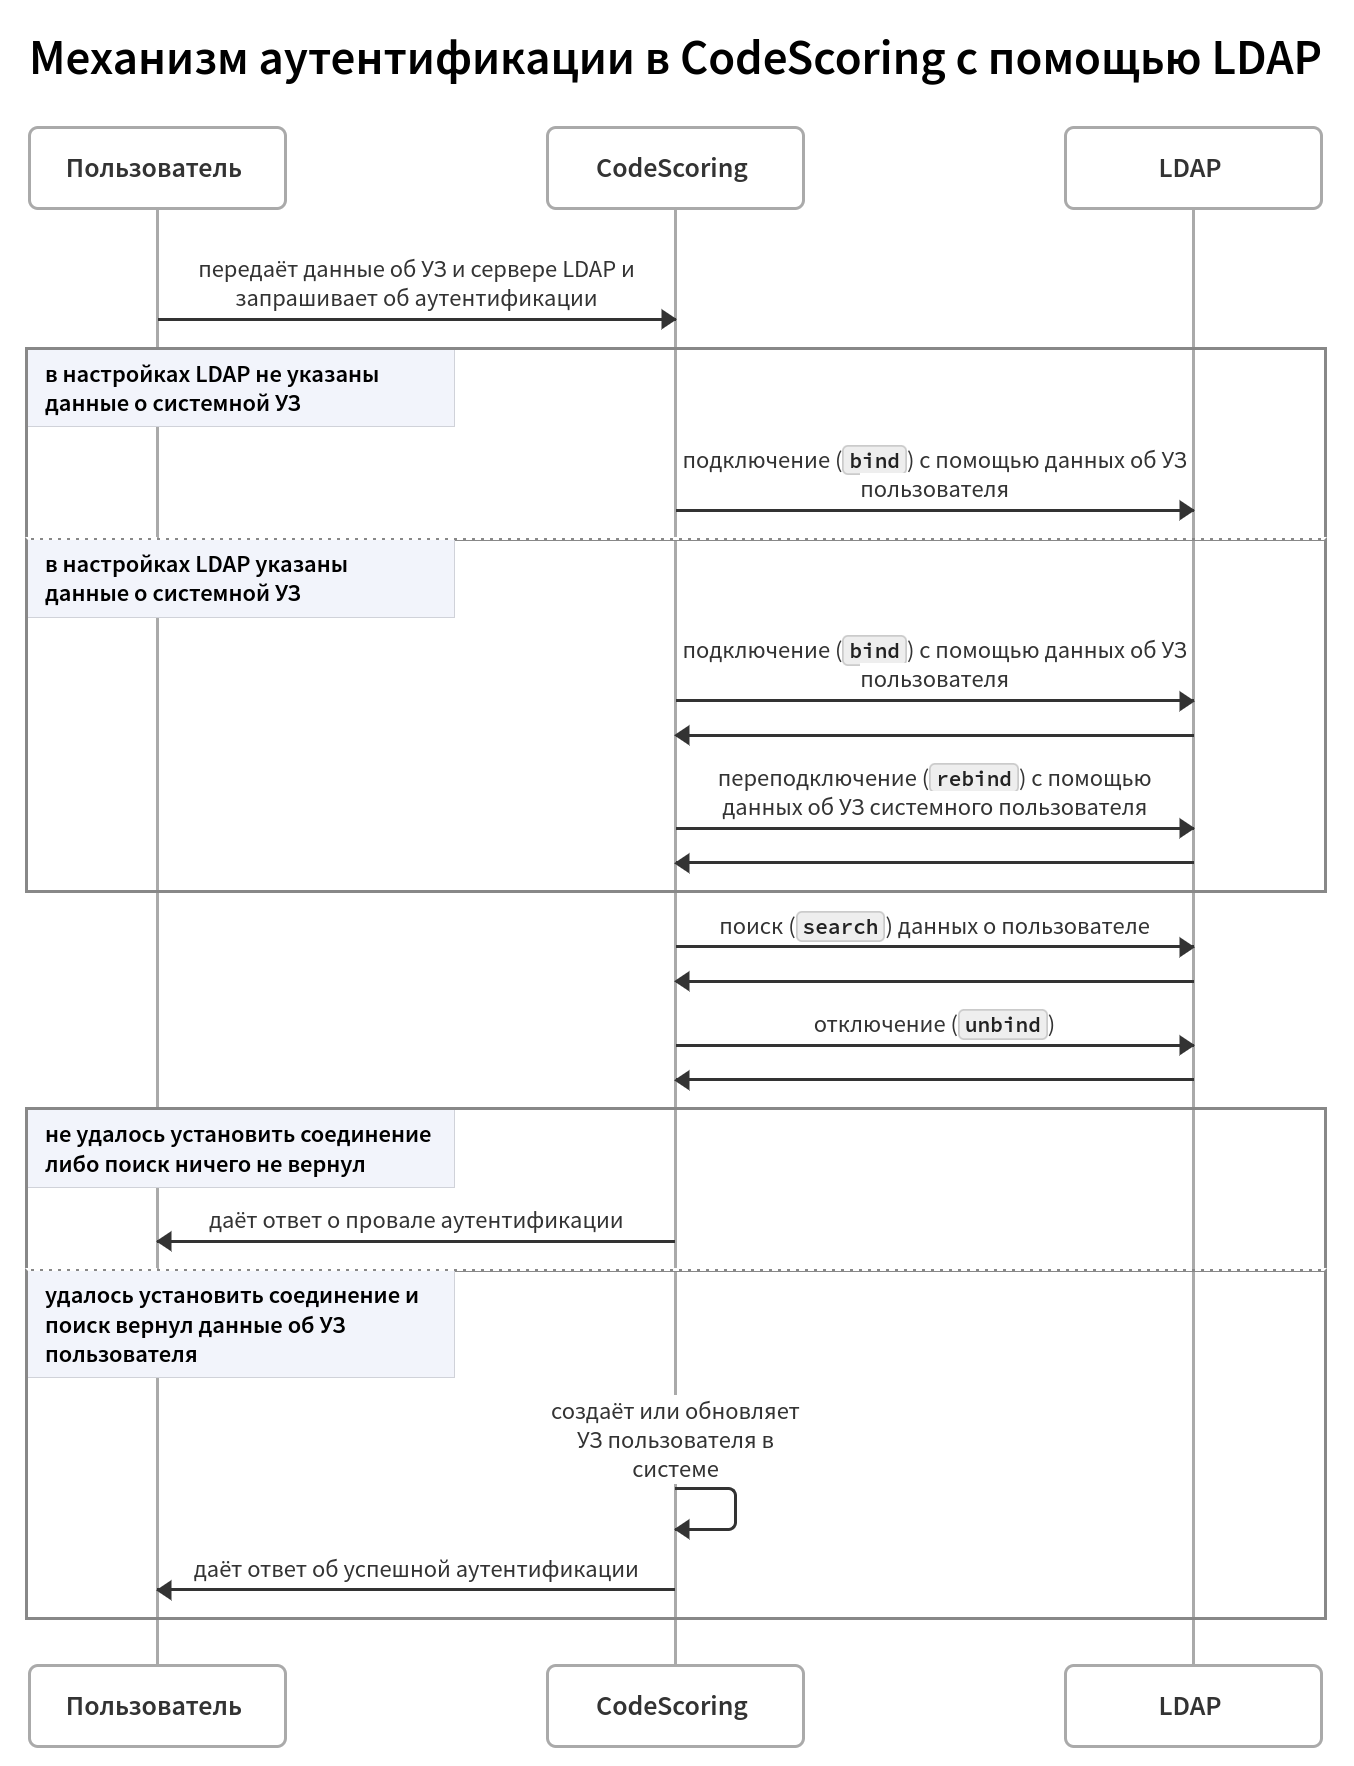
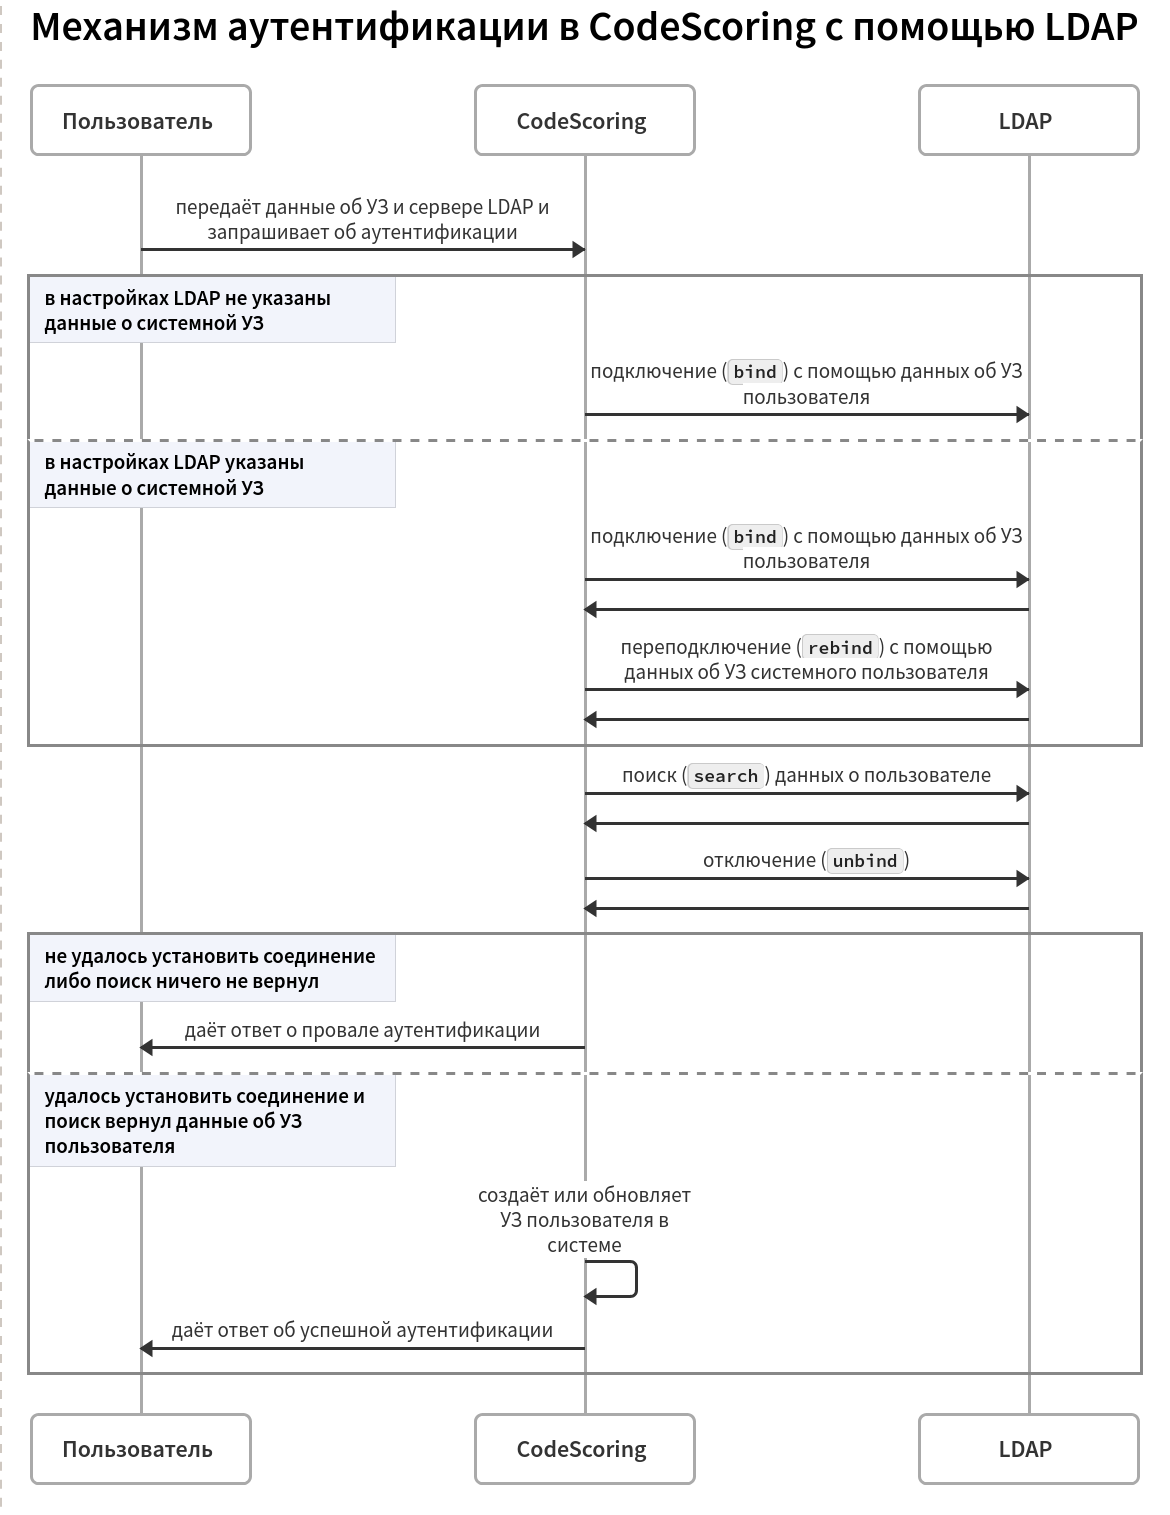
перевести swimlane c ldap auth flow на английский

Changed region(s): [[0.0, 0.0, 0.9846, 0.9927], [0.9538, 0.1861, 0.9846, 0.4964]]

diff --git a/docs/on-premise/how-to/ldap-settings.en.md b/docs/on-premise/how-to/ldap-settings.en.md
@@ -152,7 +152,7 @@ When the test button (`Test it`) in the **Test load groups** is clicked, the con
 
 ## LDAP authentication mechanism
 
-![LDAP authentication mechanism illustration](/assets/img/ldap/auth_swimlane.png)
+![LDAP authentication mechanism illustration](/assets/img/ldap/auth_swimlane.en.png)
 
 ## Notes
 
